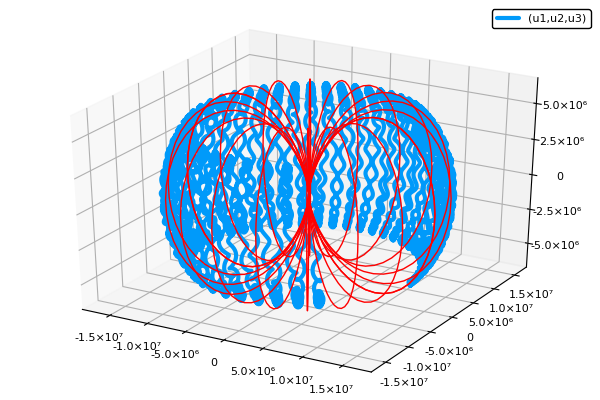
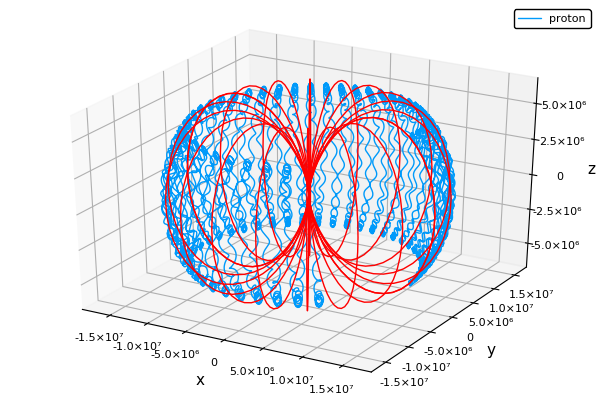
3: Solve task 5

diff --git a/3_Motion/results.md b/3_Motion/results.md
@@ -81,5 +81,13 @@ See the modified file `van_allen.jl` for implementation.
 
 Exercise 5
 ==========
+Running the `van_allen.jl` file produces the following figure:
 
 ![Trajectory of a particle in Van Allen radiation belt](img/van-allen.png)
+
+Three components of the proton movement are apparent:
+First is the gyration of the proton in the magnetic field,
+while the second is an oscillating motion of the gyration center.
+These two components form a helical trajectory along the field lines.
+The third component is a slow rotary “drift” of the meridian plane in which
+the helical movement takes place.
